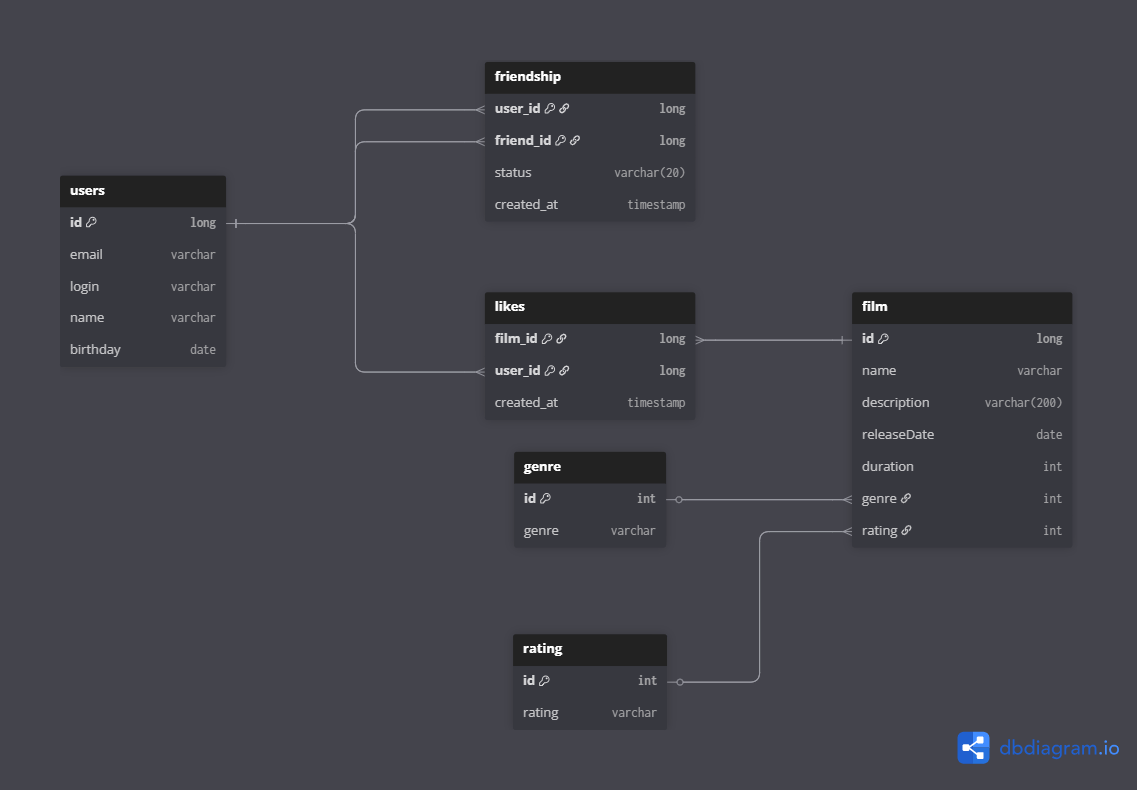
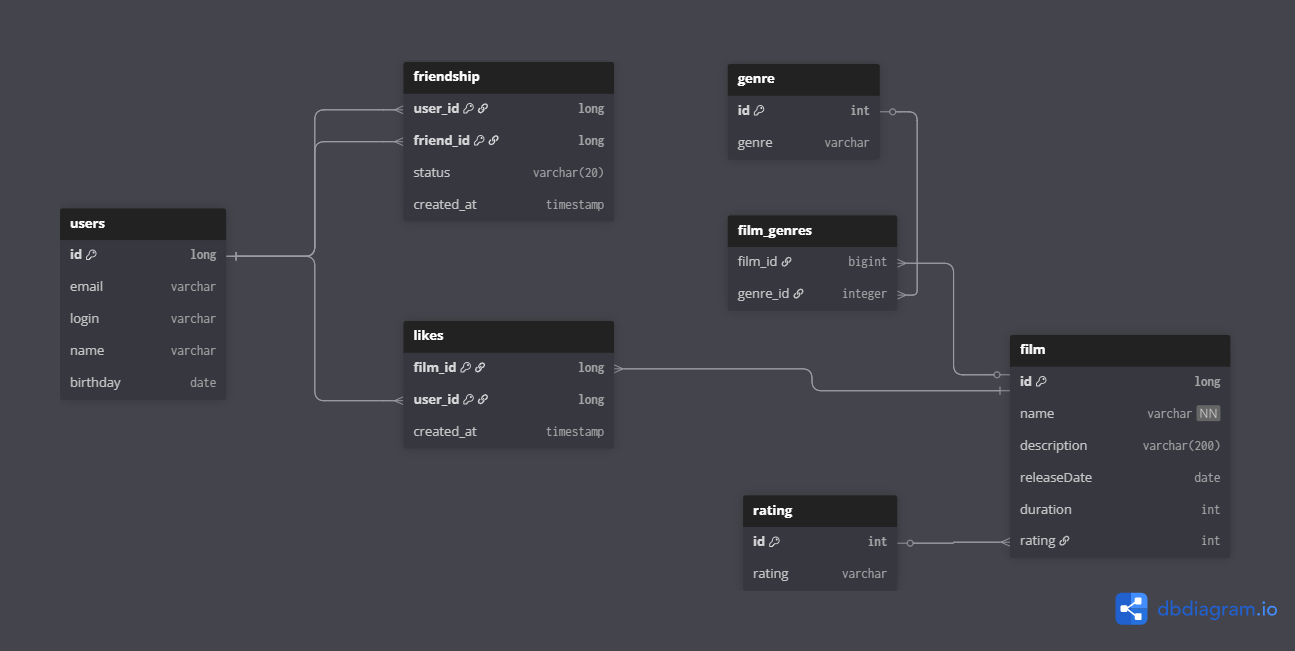
rev.3.01.03 Устранил замечания пир-ту-пир

diff --git a/src/main/java/ru/yandex/practicum/filmorate/dao/mapper/Film/FilmMapper.java b/src/main/java/ru/yandex/practicum/filmorate/dao/mapper/Film/FilmMapper.java
@@ -21,8 +21,8 @@ public class FilmMapper<U> implements RowMapper<Film> {
                         rs.getDate("birthday").toLocalDate() : null)
                 .duration(rs.getInt("duration"))
                 .likes(new HashSet<>())
-                .genre(rs.getInt("genre"))
-                .genre(rs.getInt("genre"))
+                .genre(new HashSet<>())
+                .rating(rs.getInt("rating"))
                 .build();
     }
 

diff --git a/src/main/java/ru/yandex/practicum/filmorate/dao/mapper/Film/FilmDtoMapper.java b/src/main/java/ru/yandex/practicum/filmorate/dao/mapper/Film/FilmDtoMapper.java
@@ -23,7 +23,7 @@ public class FilmDtoMapper<U> {
                 .releaseDate(film.getReleaseDate())
                 .duration(film.getDuration())
                 .likes(new HashSet<>())
-                .genre(film.getGenre())
+                .genre(new HashSet<>())
                 .rating(film.getRating())
                 .build();
     }

diff --git a/src/main/java/ru/yandex/practicum/filmorate/dao/mapper/Film/FilmDto.java b/src/main/java/ru/yandex/practicum/filmorate/dao/mapper/Film/FilmDto.java
@@ -21,6 +21,6 @@ public class FilmDto {
     private int duration;
     @Builder.Default
     private Set<Long> likes = new HashSet<>();
-    private int genre;
+    private Set<Integer>genre = new HashSet<>();
     private int rating;
 }

diff --git a/src/main/java/ru/yandex/practicum/filmorate/model/Film.java b/src/main/java/ru/yandex/practicum/filmorate/model/Film.java
@@ -29,7 +29,7 @@ public class Film {
 
     private Set<Long> likes = new HashSet<>();
 
-    private int genre;
+    private Set<Integer> genre= new HashSet<>();
 
     private int rating;
 
